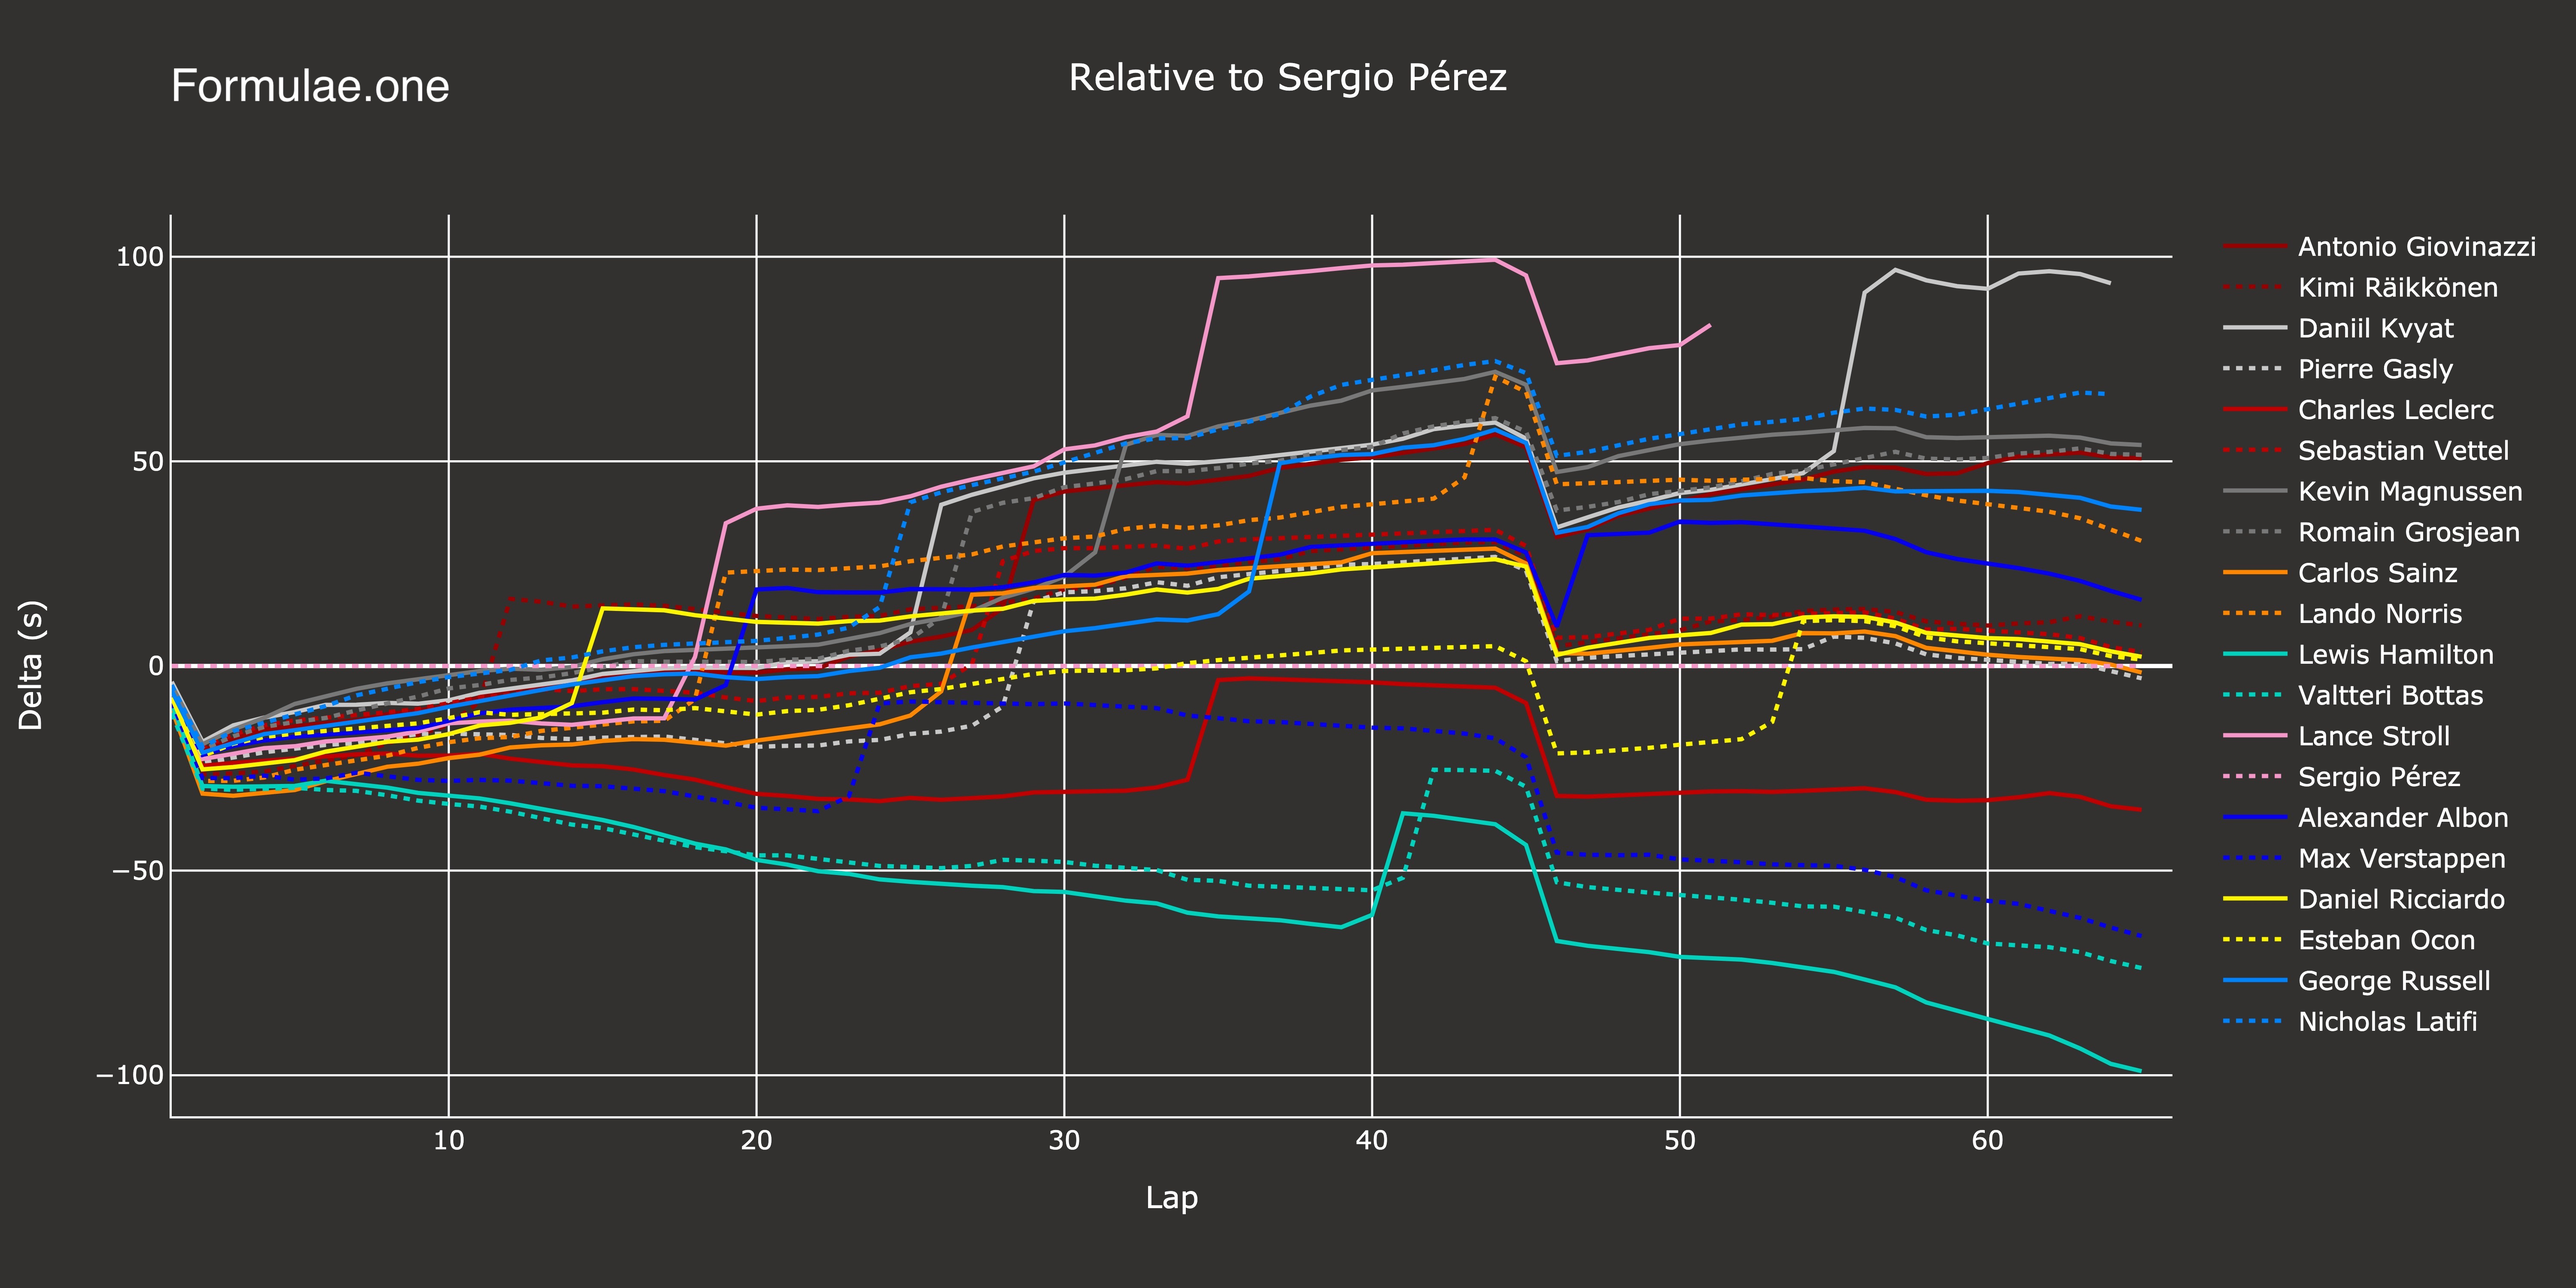
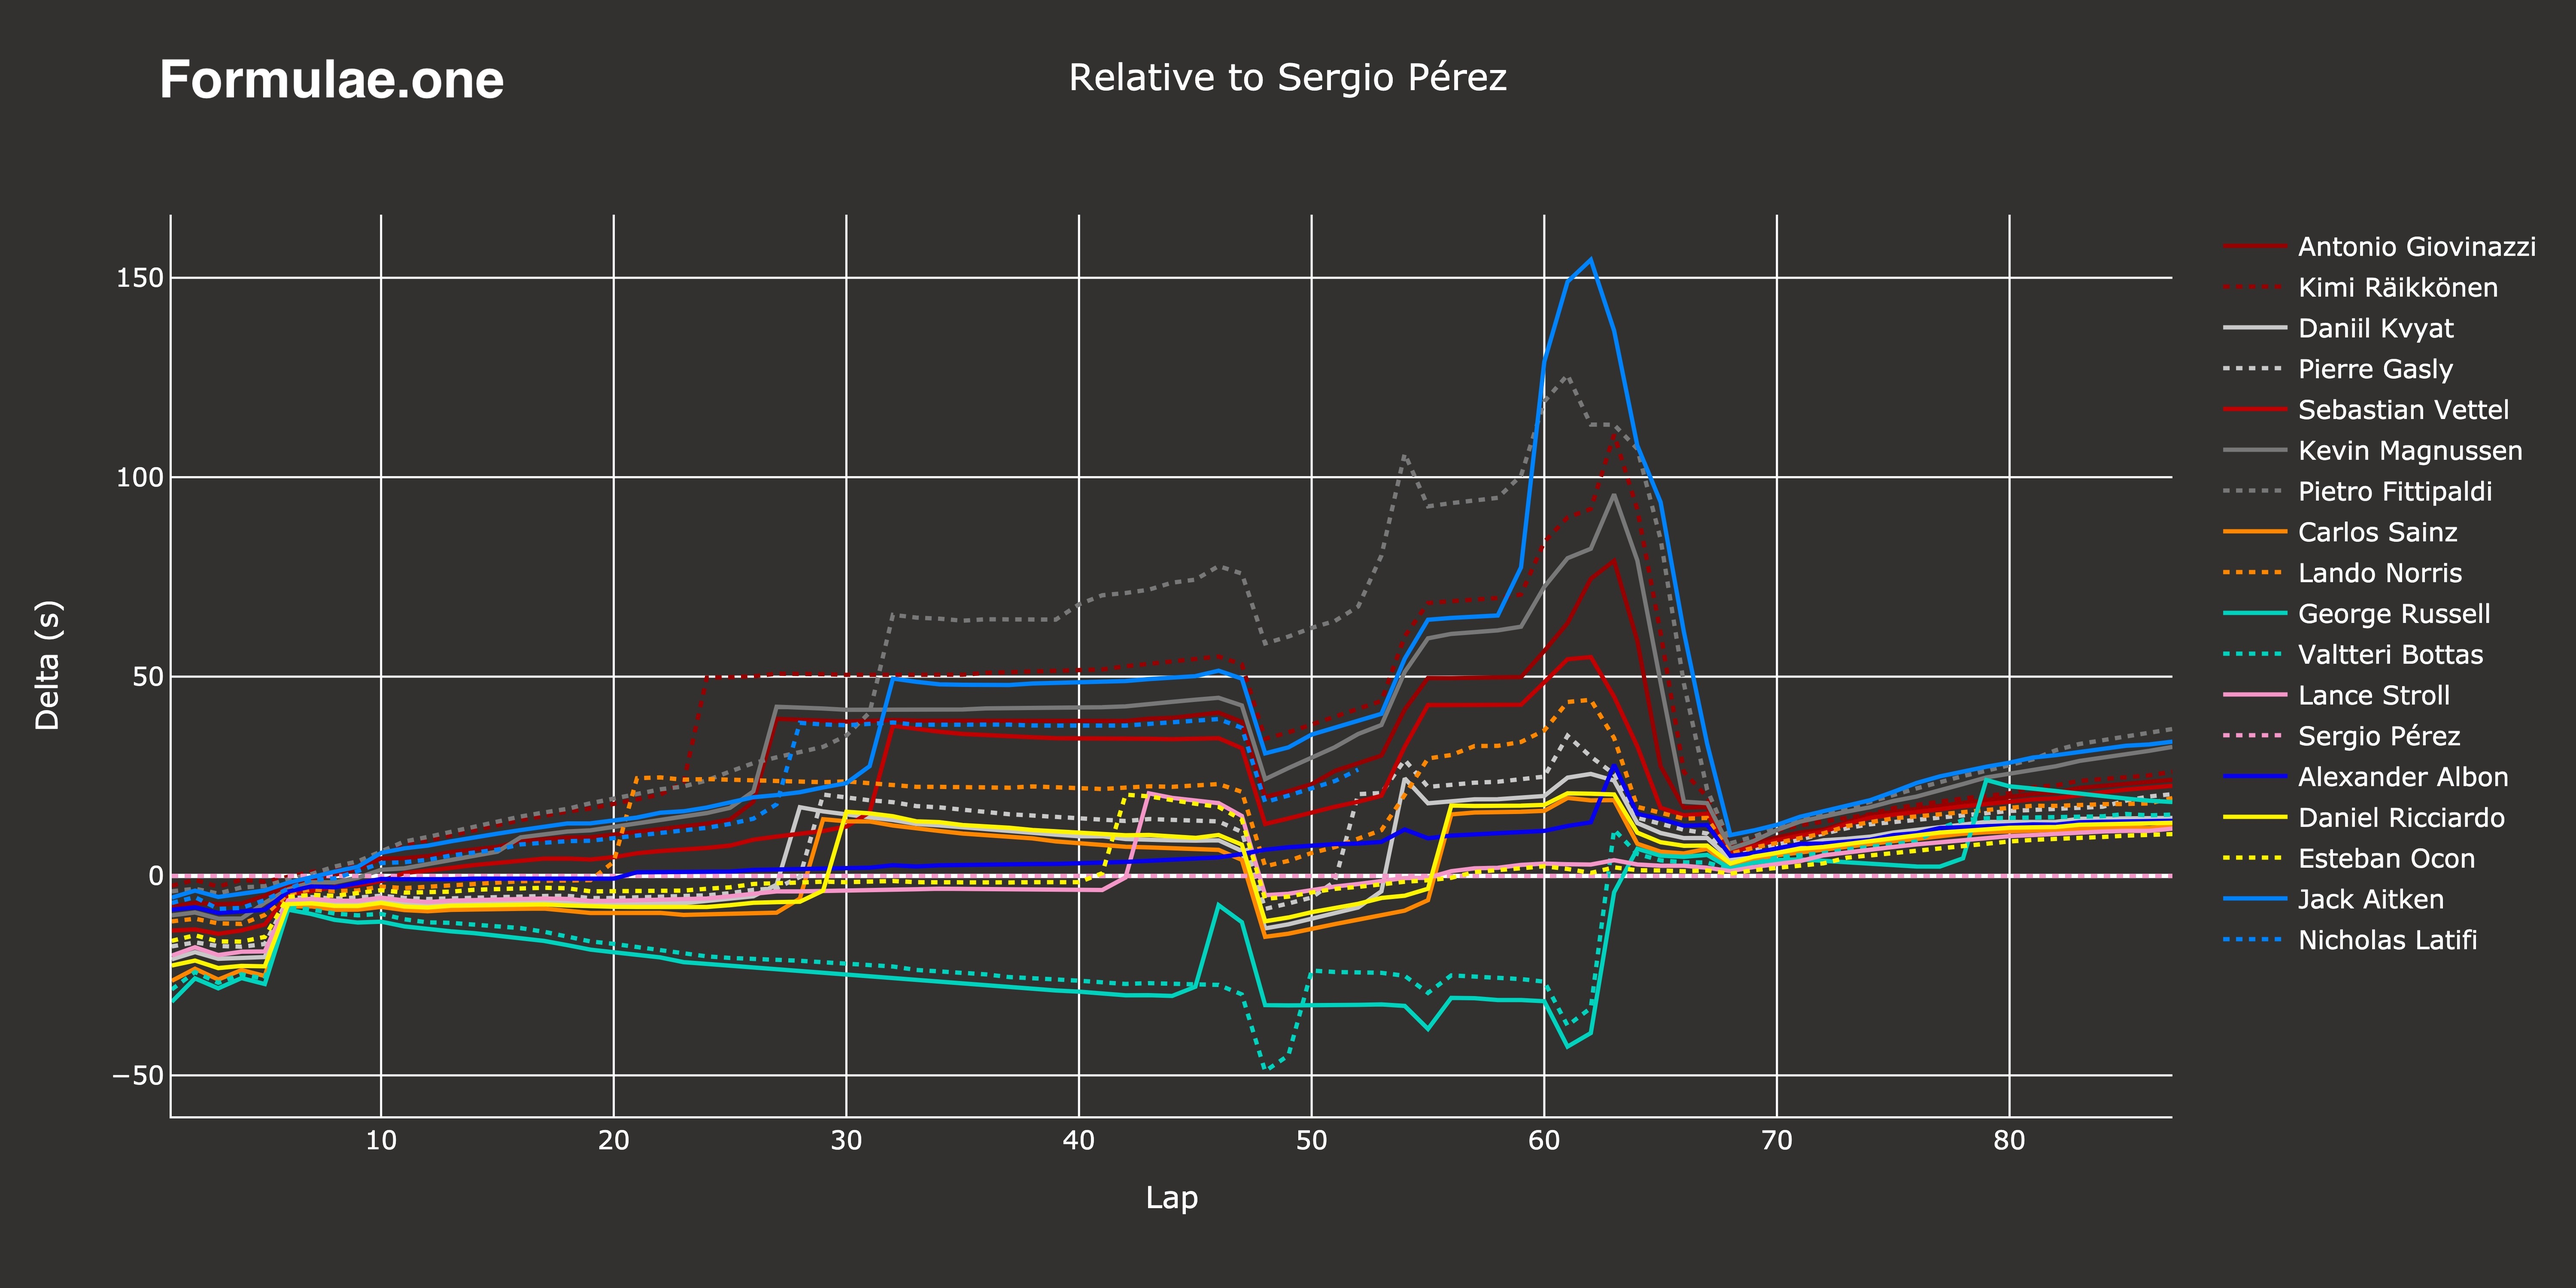
lap simulation graph loading spinners

diff --git a/assets/style.css b/assets/style.css
@@ -216,3 +216,9 @@ div > img {
 .CalendarMonth_table td {
   padding: unset;  
 }
+
+.loader-wrapper > div {
+    visibility: visible !important;
+}
+
+

diff --git a/tabs.py b/tabs.py
@@ -839,9 +839,15 @@ app.layout = dbc.Container(
 						])
 					]),
 					html.Br(),
-					dcc.Graph(className='div-for-charts',id='lapSimGraph'),
+					html.Div(className="loader-wrapper",children=[
+					dcc.Loading(id='traceLoading',color="#fc7303",children=[
+					dcc.Graph(className='div-for-charts',id='lapSimGraph')
+					])]),
 					html.Br(),
+					html.Div(className="loader-wrapper",children=[
+					dcc.Loading(id='trackLoading',color="#fc7303",children=[
 					dcc.Graph(id='trackGraph',style={'width':'100%','height':'70vh','display':'flex','flex-direction':'column'})
+					])])
 				]),
 				dbc.Tab(label = "Contact", tab_id="contact", children = [
 						html.Br(),
@@ -1134,6 +1140,7 @@ def changeTab(pathname):
 )
 def changeTab2(tab):
 	return '/'+tab
+
 
 
 # @app.callback(

diff --git a/create_deltagraph.py b/create_deltagraph.py
@@ -40,7 +40,7 @@ def create_race_table(year, race_name):
     color_palette = pd.Series(colored_df.color.values, index = colored_df.driverName).to_dict()
     return df_4, races_temp, color_palette,colored_df
 
-race_table,races_temp,color_palette,color_df = create_race_table(2020,'Portuguese Grand Prix')
+race_table,races_temp,color_palette,color_df = create_race_table(2020,'Sakhir Grand Prix')
 print(color_df)
 def plotDeltaGraph(deltaType):
         df_grouped = [y for x,y in race_table.groupby('driverName',as_index=False)]
